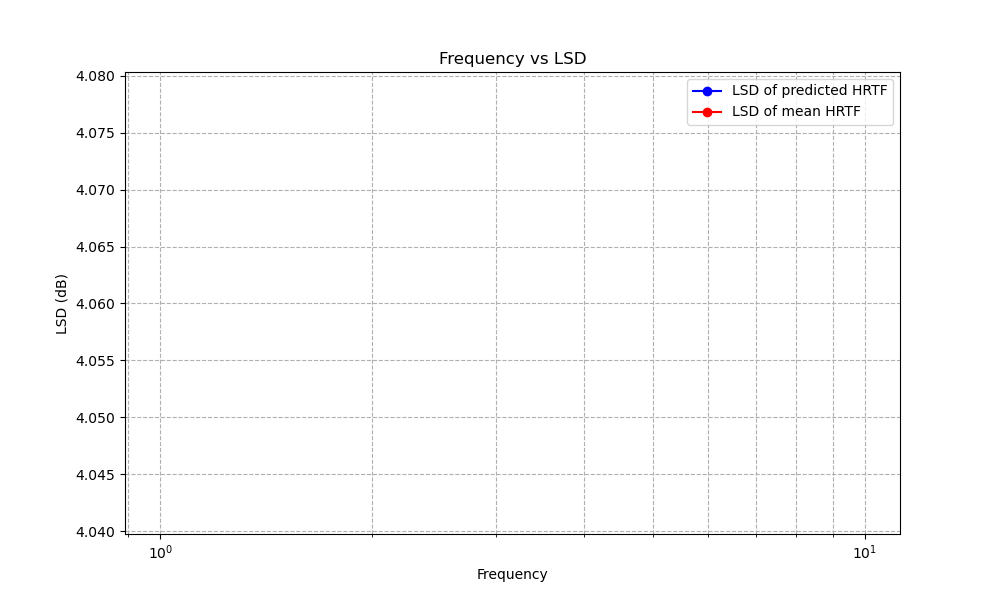
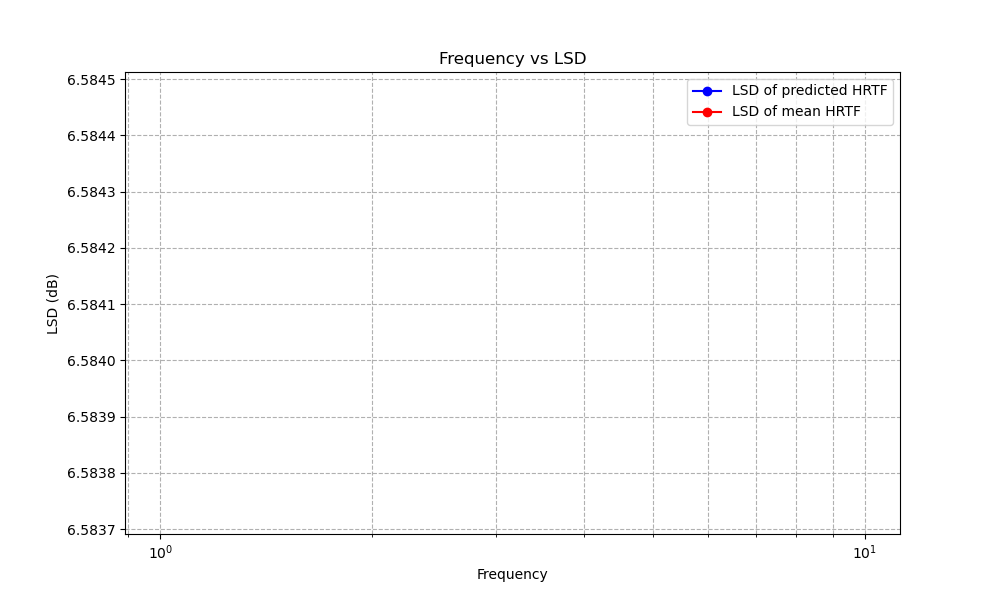
修复了LSD计算错误的bug

diff --git a/NewCode/cal_LSD_singel_old.py b/NewCode/cal_LSD_singel_old.py
@@ -13,35 +13,34 @@ from new_dataset import SonicomDataSet, SingleSubjectDataSet
 
 # from utils import read_split_data, train_one_epoch, evaluate
 
-model_path = "D:\大学\大三下\大创项目\Sonicom--\weights\model-3.pth"
+model_path = "weights-100\model-1.pth"
 # model_path = "123"
 
-target_index = 100
+target_index = 50
 
-def evaluate_one_hrtf(model, test_loader, target_index = 50):
+
+def evaluate_one_hrtf(model, test_loader, target_index=50):
     model.eval()
 
     all_preds = []
     all_targets = []
 
-
     with torch.no_grad():
         for batch in test_loader:
             # 数据迁移到设备
-            imageleft = batch["left_image"].to(device) #[batch, 3, 224, 224]
+            imageleft = batch["left_image"].to(device)  # [batch, 3, 224, 224]
             # imageright = batch["imageright"].to(device)
-            position = batch["position"].squeeze(1).to(device) #[batch, 2]
+            position = batch["position"].squeeze(1).to(device)  # [batch, 2]
             # mark
-            targets = batch["hrtf"].squeeze(1)[:, target_index].unsqueeze(-1).to(device)  # [batch]
+            targets = batch["hrtf"].squeeze(1)[:, target_index].to(device)  # [batch]
             meanloghrtf = batch["meanlog"].unsqueeze(-1)[:, target_index].to(device)  # [batch]
-            #
+
             # targets = batch["hrtf"].squeeze(1)[:, :].to(device)  # [batch]
             # meanloghrtf = batch["meanlog"][:, :].to(device)  # [batch]
 
             # 前向传播
             # outputs = model(imageleft,imageright, position)  # [batch]
             outputs = model(imageleft, position)  # [batch]
-
             # 添加epsilon防止log(0)
             targets = targets + 1e-8
 
@@ -56,14 +55,12 @@ def evaluate_one_hrtf(model, test_loader, target_index = 50):
             # print(outputs.shape)
             # print(meanloghrtf.shape)
 
-
     # 将所有batch的结果拼接成两个大矩阵
     final_preds = torch.cat(all_preds, dim=0)  # [total_samples, n_frequencies]
     final_targets = torch.cat(all_targets, dim=0)  # [total_samples, n_frequencies]
 
     return final_preds, final_targets
     # return all_preds, all_targets
-
 
 
 if __name__ == '__main__':
@@ -125,19 +122,19 @@ if __name__ == '__main__':
 
     # 实例化训练数据集
     train_dataset = SonicomDataSet(hrtf_files=train_hrtf_list,
-                            left_images=left_train,
-                            right_images=right_train,
-                            transform=data_transform["train"],
-                            mode="left")
+                                   left_images=left_train,
+                                   right_images=right_train,
+                                   transform=data_transform["train"],
+                                   mode="left")
 
     # 实例化验证数据集
     log_mean_hrtf_left = train_dataset.log_mean_hrtf_left
     log_mean_hrtf_right = train_dataset.log_mean_hrtf_right
 
     batch_size = args.batch_size
-    nw = min([os.cpu_count(), batch_size if batch_size > 1 else 0, 4]) # 加载数据所用进程数，若大于1需要时间准备进程，不是越大越好
+    nw = min([os.cpu_count(), batch_size if batch_size > 1 else 0, 4])  # 加载数据所用进程数，若大于1需要时间准备进程，不是越大越好
 
-    for hrtfid in range(1, len(left_test)+1):  # 选择计算第几个HRTF的LSD
+    for hrtfid in range(1, len(left_test) + 1):  # 选择计算第几个HRTF的LSD
         val_dataset = SingleSubjectDataSet(hrtf_files=test_hrtf_list,
                                            left_images=left_test,
                                            right_images=right_test,
@@ -145,18 +142,18 @@ if __name__ == '__main__':
                                            mode="left",
                                            train_log_mean_hrtf_left=log_mean_hrtf_left,
                                            train_log_mean_hrtf_right=log_mean_hrtf_right,
-                                           subject_id = hrtfid
+                                           subject_id=hrtfid
                                            )
         dataloader = torch.utils.data.DataLoader(val_dataset,
-                                             batch_size=batch_size,
-                                             shuffle=False,
-                                             pin_memory=True,
-                                             num_workers= 0,
-                                             collate_fn=val_dataset.collate_fn
+                                                 batch_size=batch_size,
+                                                 shuffle=False,
+                                                 pin_memory=True,
+                                                 num_workers=0,
+                                                 collate_fn=val_dataset.collate_fn
                                                  )
-        pred_log_hrtf, true_log_hrtf = evaluate_one_hrtf(model, dataloader,target_index = target_index)
+        pred_log_hrtf, true_log_hrtf = evaluate_one_hrtf(model, dataloader, target_index=target_index)
         pred_list.append(pred_log_hrtf)
-        true_list.append(true_log_hrtf.squeeze(1)) # mark
+        true_list.append(true_log_hrtf)
         lsd = torch.sqrt(torch.mean((pred_log_hrtf - true_log_hrtf) ** 2)).item()
         res_list.append(lsd)
         print(f"LSD of HRTF {hrtfid}:", lsd)
@@ -166,61 +163,58 @@ if __name__ == '__main__':
     true_tensor = torch.stack(true_list, dim=0)
 
     freq_list = np.linspace(0, 1, 1)  # 获取频率列表
-    freq_list = 48000 /256 * freq_list  # 计算频率值
-    # 存储每个频率点的平均LSD mark
-    # avg_lsd_per_freq = np.zeros(len(freq_list))
-    # for freq_idx in range(len(freq_list)):
-    #     # 计算平均LSD
-    #     LSDvec = torch.sqrt(torch.mean((pred_tensor[:, freq_idx] - true_tensor[:, freq_idx]) ** 2, dim=1))
-    #     avg_lsd_per_freq[freq_idx] = torch.mean(LSDvec).item()
-    #     print(f"Avg LSD of freq point {freq_idx}:{avg_lsd_per_freq[freq_idx]}")
+    freq_list = 48000 / 256 * freq_list  # 计算频率值
+    # 存储每个频率点的平均LSD
+    avg_lsd_per_freq = np.zeros(len(freq_list))
+    for freq_idx in range(len(freq_list)):
+        # 计算平均LSD
+        LSDvec = torch.sqrt(torch.mean((pred_tensor[:, freq_idx] - true_tensor[:, freq_idx]) ** 2, dim=1))
+        avg_lsd_per_freq[freq_idx] = torch.mean(LSDvec).item()
+        print(f"Avg LSD of freq point {freq_idx}:{avg_lsd_per_freq[freq_idx]}")
     print("\n-----------------contrast with mean HRTF-----------------\n")
     res_list_mean = []
     # 将均值转为tensor
-    log_mean_hrtf_left = torch.tensor(np.abs(log_mean_hrtf_left[:,target_index]), dtype=torch.float32).to(device)
+    log_mean_hrtf_left = torch.tensor(np.abs(log_mean_hrtf_left[:, target_index]), dtype=torch.float32).to(device)
     log_mean_hrtf_left = log_mean_hrtf_left.unsqueeze(0)  # 添加batch维度
-for hrtfid in range(1, len(left_test)+1):
+for hrtfid in range(1, len(left_test) + 1):
     # 之前已经计算预测HRTF和真实HRTF之间LSD，
     # 现在计算平均HRTF和真实HRTF之间LSD
-    lsd_of_mean = torch.sqrt(torch.mean((log_mean_hrtf_left - true_tensor[hrtfid-1,:]) ** 2)).item()
+    lsd_of_mean = torch.sqrt(torch.mean((log_mean_hrtf_left - true_tensor[hrtfid - 1, :]) ** 2)).item()
     res_list_mean.append(lsd_of_mean)
     print(f"LSD between mean HRTF and HRTF {hrtfid}:", lsd_of_mean)
 
 print(f"Mean LSD of mean HRTF: {np.mean(res_list_mean)}")
 
 avg_lsd_per_freq_of_mean = np.zeros(len(freq_list))
-# mark
-# for freq_idx in range(len(freq_list)):
-#     # 计算平均LSD
-#     LSDvec = torch.sqrt(torch.mean((log_mean_hrtf_left[:,freq_idx] - true_tensor[:, freq_idx]) ** 2, dim=0))
-#     avg_lsd_per_freq_of_mean[freq_idx] = torch.mean(LSDvec).item()
-#     # print(f"Avg LSD of freq point {freq_idx}:{avg_lsd_per_freq_of_mean[freq_idx]}")
+for freq_idx in range(len(freq_list)):
+    # 计算平均LSD
+    LSDvec = torch.sqrt(torch.mean((log_mean_hrtf_left[:, freq_idx] - true_tensor[:, freq_idx]) ** 2, dim=0))
+    avg_lsd_per_freq_of_mean[freq_idx] = torch.mean(LSDvec).item()
+    # print(f"Avg LSD of freq point {freq_idx}:{avg_lsd_per_freq_of_mean[freq_idx]}")
 
-
-# # 绘制频率-LSD图
-# plt.figure(figsize=(10, 6))
-# plt.semilogx(freq_list, avg_lsd_per_freq, 'b-o')
-# plt.semilogx(freq_list, avg_lsd_per_freq_of_mean, 'r-o')
-# plt.title('Frequency vs LSD')
-# plt.xlabel('Frequency')
-# plt.ylabel('LSD (dB)')
-# plt.grid(True, which="both", ls="--")
-# plt.legend(['LSD of predicted HRTF', 'LSD of mean HRTF'])
-# # 保存频率-LSD图片
-# plt.savefig("LSD_per_frequency.png")  # 保存频率-LSD图片
-
-# print(res_list)
-#绘制LSD对比图
+# 绘制频率-LSD图
 plt.figure(figsize=(10, 6))
-plt.plot(range(1, len(res_list)+1), res_list, 'b-o', label='LSD of predicted HRTF')
-plt.plot(range(1, len(res_list_mean)+1), res_list_mean, 'r-o', label='LSD of mean HRTF')
+plt.semilogx(freq_list, avg_lsd_per_freq, 'b-o')
+plt.semilogx(freq_list, avg_lsd_per_freq_of_mean, 'r-o')
+plt.title('Frequency vs LSD')
+plt.xlabel('Frequency')
+plt.ylabel('LSD (dB)')
+plt.grid(True, which="both", ls="--")
+plt.legend(['LSD of predicted HRTF', 'LSD of mean HRTF'])
+# 保存频率-LSD图片
+plt.savefig("LSD_per_frequency.png")  # 保存频率-LSD图片
+
+# 绘制LSD对比图
+plt.figure(figsize=(10, 6))
+plt.plot(range(1, len(res_list) + 1), res_list, 'b-o', label='LSD of predicted HRTF')
+plt.plot(range(1, len(res_list_mean) + 1), res_list_mean, 'r-o', label='LSD of mean HRTF')
 plt.title('LSD Comparison')
 plt.xlabel('HRTF ID')
 plt.ylabel('LSD (dB)')
 plt.legend()
 plt.grid(True, which="both", ls="--")
 # 保存LSD对比图
-# plt.savefig("LSD_comparison.png")  # 保存LSD对比图
+plt.savefig("LSD_comparison.png")  # 保存LSD对比图
 plt.show(block=True)  # 显示图像，阻止脚本结束时关闭图像窗口
 
 # 保存LSD结果

diff --git a/NewCode/vit_model.py b/NewCode/vit_model.py
@@ -244,8 +244,10 @@ class VisionTransformer(nn.Module):
         )'''
         # 修改head层（每个token独立预测）
         # # mark 改单频率将108改为1
-        self.heads = nn.ModuleList([nn.Linear(768, 1) for _ in range(1)])
-        # self.heads = nn.ModuleList([nn.Linear(768, 1) for _ in range(108)])
+        # self.heads = nn.ModuleList([nn.Linear(768, 1) for _ in range(1)])
+        self.heads = nn.ModuleList([nn.Linear(768, 1) for _ in range(108)])
+        # mark=== 新增全连接层 ===
+        self.final_fc = nn.Linear(108, 1)  # 输入维度108 → 输出维度1
         
         
         # 调整位置编码映射层（将位置信息映射到与图像特征相同维度）
@@ -335,13 +337,16 @@ class VisionTransformer(nn.Module):
         # attn_output shape: [B, 108, 768]'''
         outputs = []
         # mark
-        # for i in range(108):
-        for i in range(1):
+        # for i in range(1):
+        for i in range(108):
             # 对每个位置应用对应的线性层
             out = self.heads[i](attn_output[:, i, :])  # [B, 1]
             outputs.append(out)
         output = torch.stack(outputs, dim=1)  # [B, 108, 1]
         output = output.squeeze(-1)       # [B, 108]
+        
+        # mark 新增全连接层
+        output = self.final_fc(output)  # [B, 108] → [B, 1]
 
         return output
 
